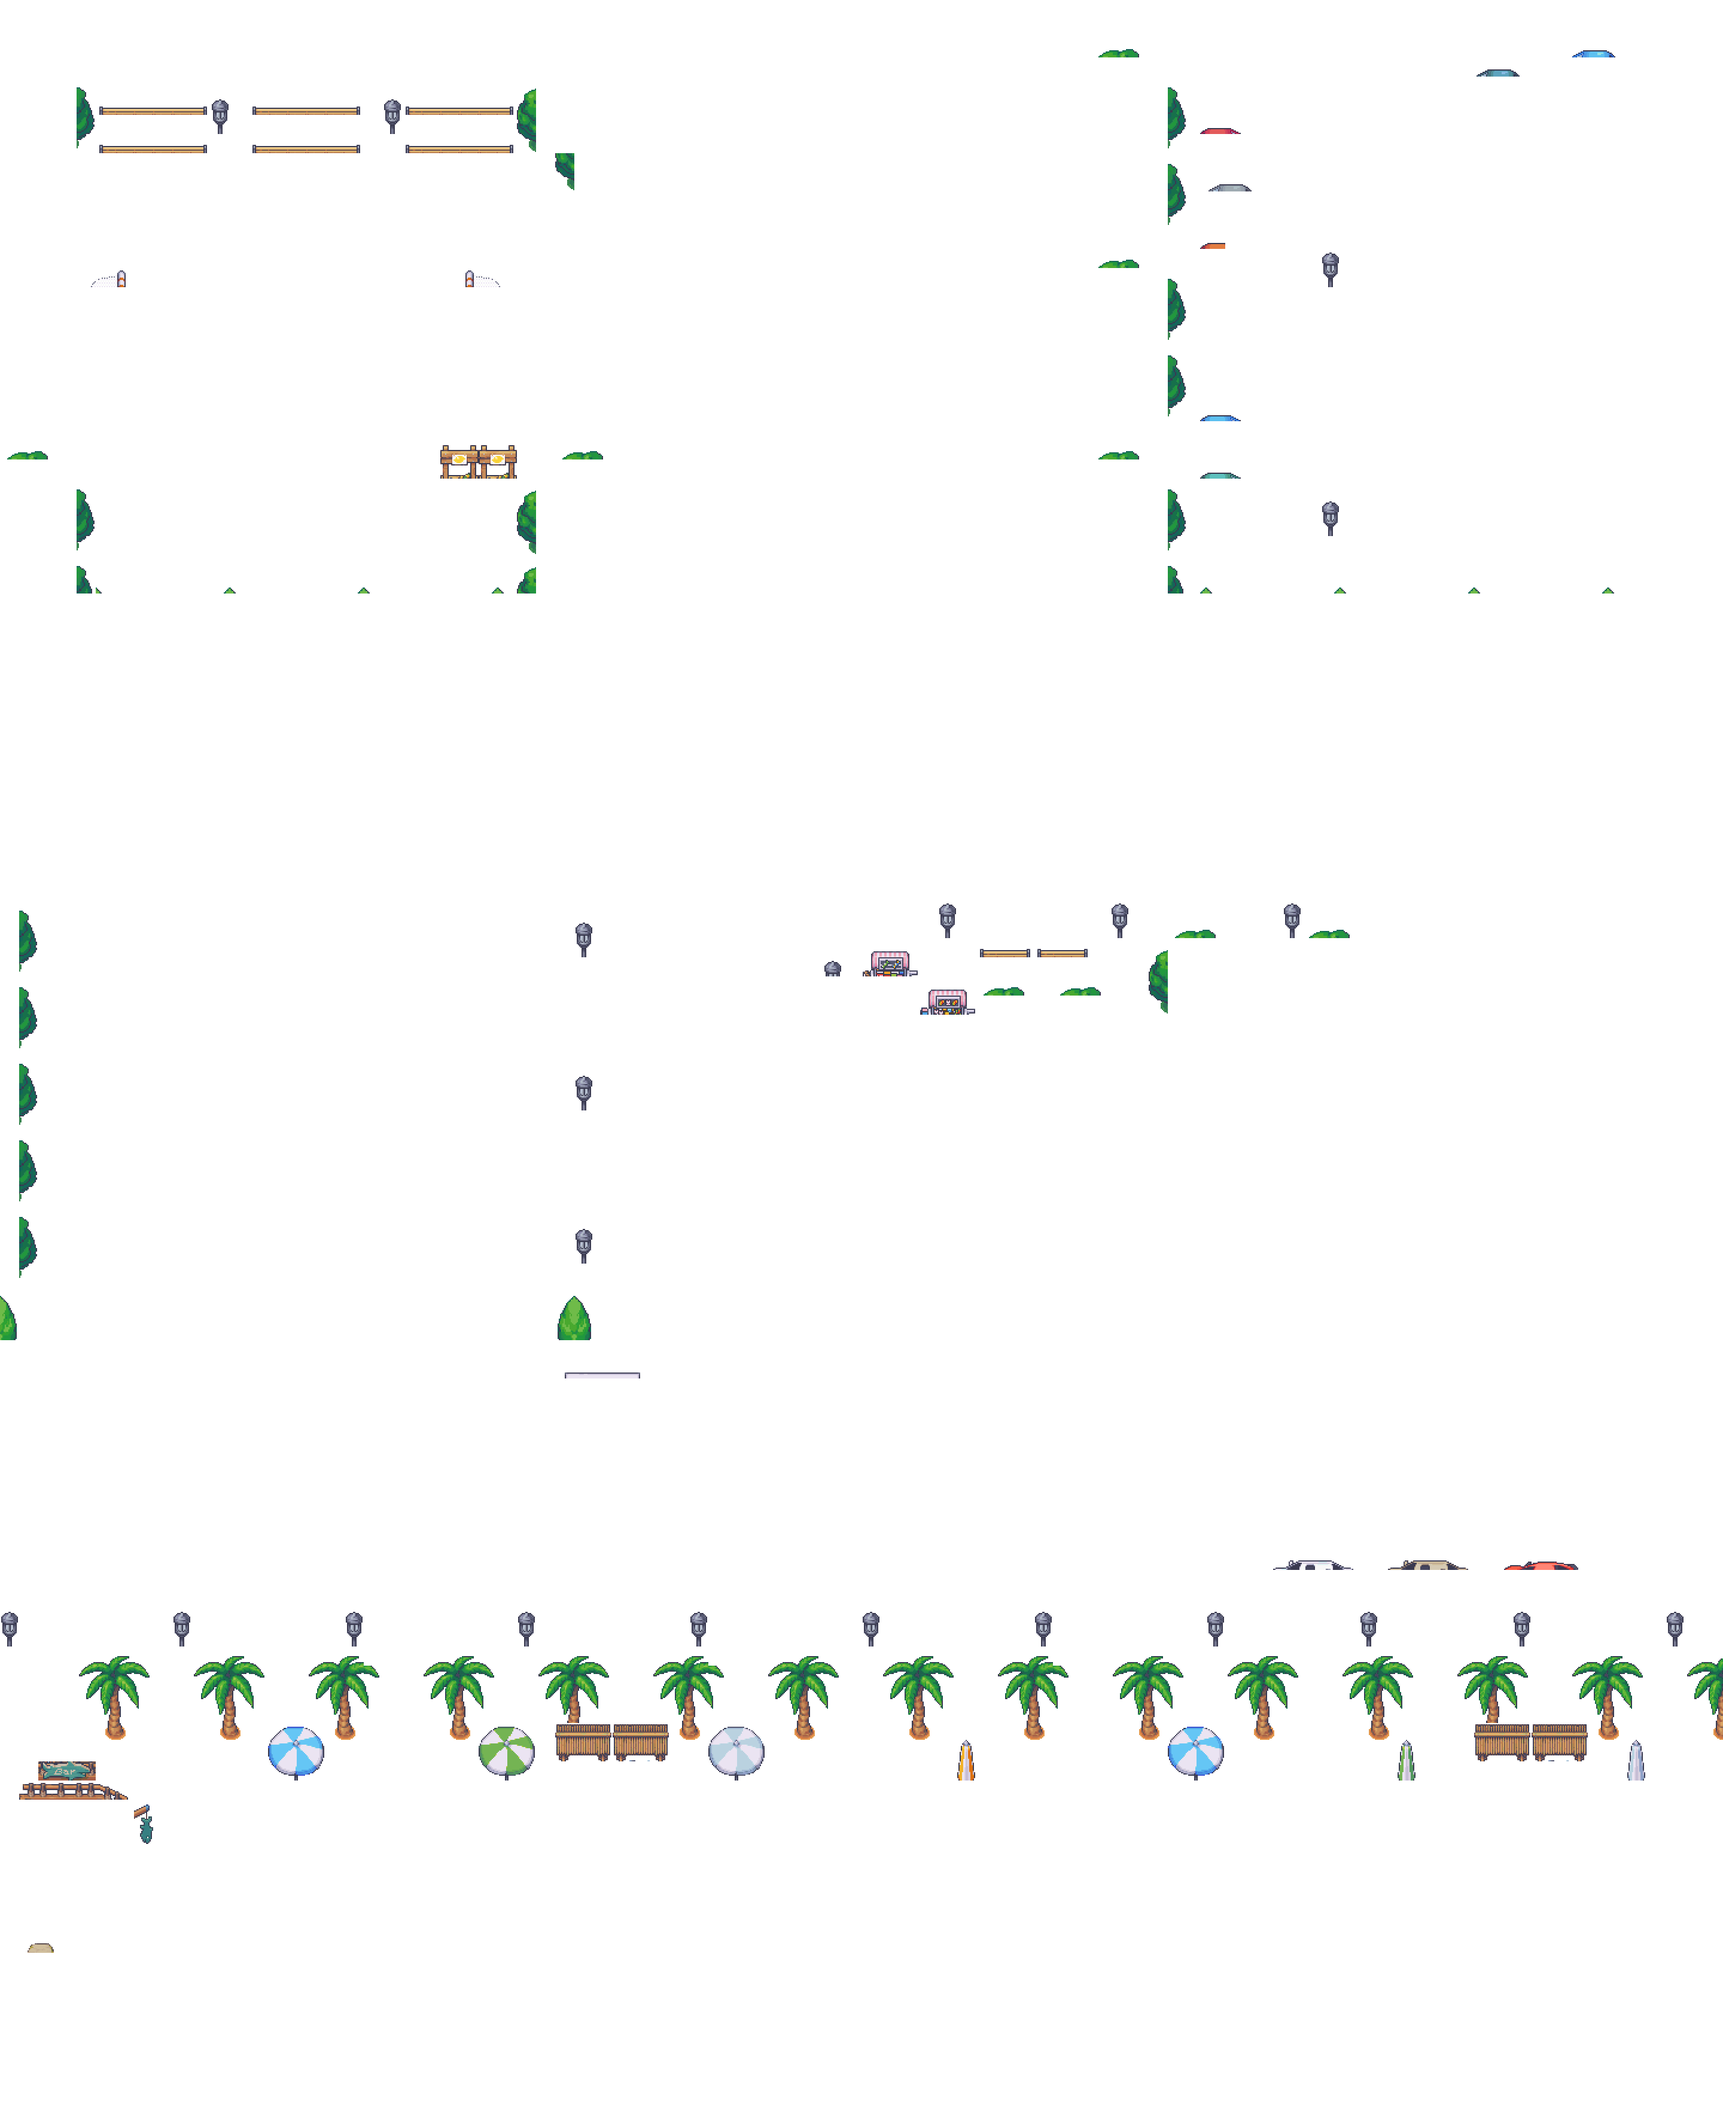
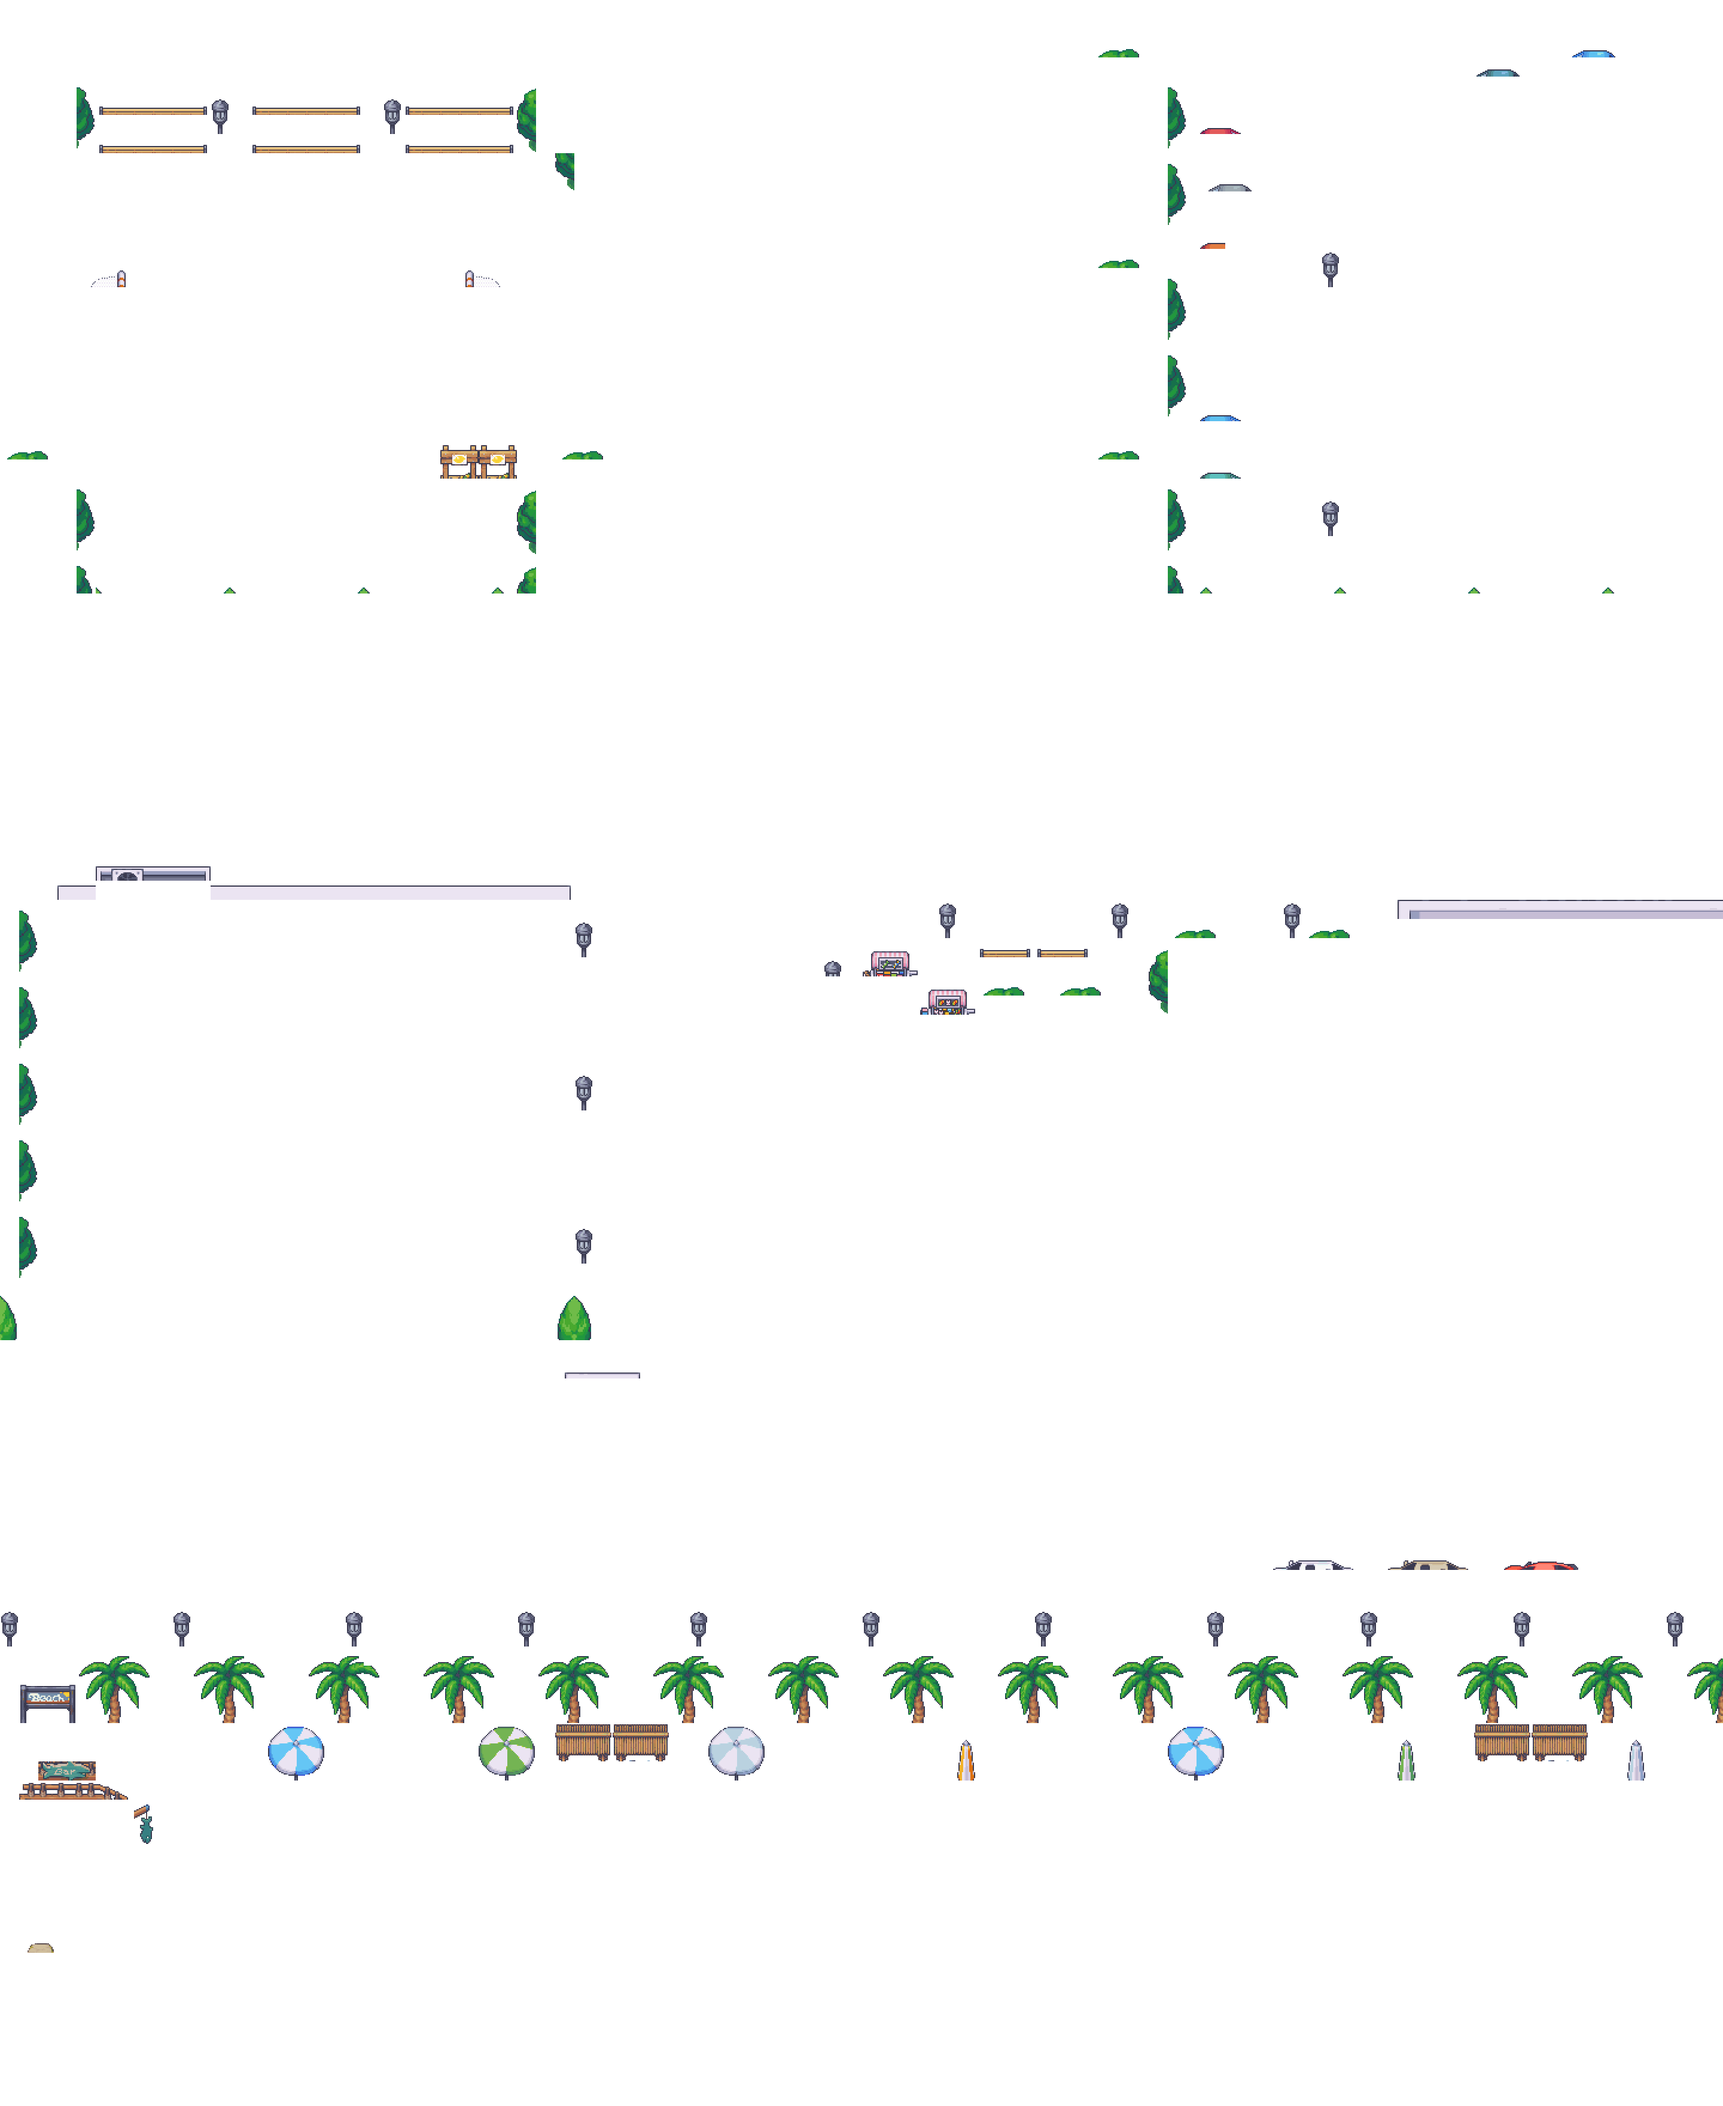
Fix: Update foreground and collisions map

Changed region(s): [[0.0312, 0.4062, 0.3438, 0.4375], [0.8125, 0.4062, 1.0, 0.4375], [0.0, 0.7812, 0.0625, 0.8125]]

diff --git a/lib/simulator/collisions.ts b/lib/simulator/collisions.ts
@@ -280,6 +280,12 @@ export const collisions = [
     0, 0, 0, 0, 0, 0, 0, 0, 0, 0, 0, 0, 0, 0, 0,
   ],
   [
+    0, 0, 0, 0, 0, 0, 0, 0, 0, 0, 0, 0, 0, 0, 0, 0, 0, 0, 0, 0, 0, 0, 0, 0, 0,
+    0, 0, 0, 0, 0, 0, 0, 0, 0, 0, 0, 0, 0, 0, 0, 0, 0, 0, 0, 0, 0, 0, 0, 0, 0,
+    0, 0, 0, 0, 0, 0, 0, 0, 0, 0, 0, 0, 0, 0, 0, 0, 0, 0, 0, 0, 0, 0, 0, 0, 0,
+    0, 0, 0, 0, 0, 0, 0, 0, 0, 0, 0, 0, 0, 0, 0,
+  ],
+  [
     0, 0, 0, 0, 0, 246, 246, 246, 246, 246, 246, 0, 0, 0, 0, 0, 0, 0, 0, 0, 0,
     0, 0, 0, 0, 0, 0, 0, 0, 0, 0, 0, 0, 0, 0, 0, 0, 0, 0, 0, 0, 0, 0, 0, 0, 0,
     0, 0, 0, 0, 0, 0, 0, 0, 0, 0, 0, 0, 0, 0, 0, 0, 0, 0, 0, 0, 0, 0, 0, 0, 0,
@@ -293,17 +299,11 @@ export const collisions = [
     0, 0, 0,
   ],
   [
-    0, 0, 0, 246, 0, 0, 0, 0, 0, 0, 0, 0, 0, 0, 0, 0, 0, 0, 0, 0, 0, 0, 0, 0, 0,
-    0, 0, 0, 0, 246, 0, 0, 0, 0, 0, 0, 0, 0, 0, 0, 0, 0, 0, 0, 0, 0, 0, 0, 0, 0,
-    0, 0, 0, 0, 0, 0, 0, 0, 0, 0, 0, 0, 0, 0, 0, 0, 0, 0, 0, 0, 0, 0, 0, 246,
-    246, 246, 246, 246, 246, 246, 246, 246, 246, 246, 246, 246, 246, 246, 246,
-    246,
-  ],
-  [
     246, 0, 0, 246, 0, 0, 0, 0, 0, 0, 0, 0, 0, 0, 0, 0, 0, 0, 0, 0, 0, 0, 0, 0,
     0, 0, 0, 0, 0, 246, 0, 0, 0, 0, 0, 0, 0, 0, 0, 0, 0, 0, 0, 0, 0, 0, 0, 0, 0,
     0, 0, 0, 0, 0, 0, 0, 0, 0, 0, 0, 0, 0, 0, 0, 0, 0, 0, 0, 0, 0, 0, 0, 0, 246,
-    0, 0, 0, 0, 0, 0, 0, 0, 0, 0, 0, 0, 0, 0, 0, 0,
+    246, 246, 246, 246, 246, 246, 246, 246, 246, 246, 246, 246, 246, 246, 246,
+    246,
   ],
   [
     246, 0, 0, 246, 0, 0, 0, 0, 0, 0, 0, 0, 0, 0, 0, 0, 0, 0, 0, 0, 0, 0, 0, 0,

diff --git a/scripts/split-collisions.py b/scripts/split-collisions.py
@@ -43,10 +43,10 @@ collisions = [0, 0, 0, 0, 0, 0, 0, 0, 0, 0, 0, 0, 0, 0, 0, 0, 0, 0, 0, 0, 0, 0, 
             0, 0, 0, 0, 0, 0, 0, 0, 0, 0, 0, 0, 0, 0, 0, 0, 0, 0, 0, 0, 0, 0, 0, 0, 0, 0, 0, 0, 0, 0, 0, 0, 0, 0, 0, 0, 0, 0, 0, 0, 0, 0, 0, 0, 0, 0, 0, 0, 0, 0, 0, 0, 0, 0, 0, 0, 0, 0, 0, 0, 0, 0, 0, 0, 0, 0, 0, 0, 0, 0, 0, 0, 0, 0, 0, 0, 0, 0, 0, 0, 0, 0, 0, 0, 0, 0, 0, 0, 0, 0,
             0, 0, 0, 0, 0, 0, 0, 0, 0, 0, 0, 0, 0, 0, 0, 0, 0, 0, 0, 0, 0, 0, 0, 0, 0, 0, 0, 0, 0, 0, 0, 0, 0, 0, 0, 0, 0, 0, 0, 0, 0, 0, 0, 0, 0, 0, 0, 0, 0, 0, 0, 0, 0, 0, 0, 0, 0, 0, 0, 0, 0, 0, 0, 0, 0, 0, 0, 0, 0, 0, 0, 0, 0, 0, 0, 0, 0, 0, 0, 0, 0, 0, 0, 0, 0, 0, 0, 0, 0, 0,
             0, 0, 0, 0, 0, 0, 0, 0, 0, 0, 0, 0, 0, 0, 0, 0, 0, 0, 0, 0, 0, 0, 0, 0, 0, 0, 0, 0, 0, 0, 0, 0, 0, 0, 0, 0, 0, 0, 0, 0, 0, 0, 0, 0, 0, 0, 0, 0, 0, 0, 0, 0, 0, 0, 0, 0, 0, 0, 0, 0, 0, 0, 0, 0, 0, 0, 0, 0, 0, 0, 0, 0, 0, 0, 0, 0, 0, 0, 0, 0, 0, 0, 0, 0, 0, 0, 0, 0, 0, 0,
+            0, 0, 0, 0, 0, 0, 0, 0, 0, 0, 0, 0, 0, 0, 0, 0, 0, 0, 0, 0, 0, 0, 0, 0, 0, 0, 0, 0, 0, 0, 0, 0, 0, 0, 0, 0, 0, 0, 0, 0, 0, 0, 0, 0, 0, 0, 0, 0, 0, 0, 0, 0, 0, 0, 0, 0, 0, 0, 0, 0, 0, 0, 0, 0, 0, 0, 0, 0, 0, 0, 0, 0, 0, 0, 0, 0, 0, 0, 0, 0, 0, 0, 0, 0, 0, 0, 0, 0, 0, 0,
             0, 0, 0, 0, 0, 246, 246, 246, 246, 246, 246, 0, 0, 0, 0, 0, 0, 0, 0, 0, 0, 0, 0, 0, 0, 0, 0, 0, 0, 0, 0, 0, 0, 0, 0, 0, 0, 0, 0, 0, 0, 0, 0, 0, 0, 0, 0, 0, 0, 0, 0, 0, 0, 0, 0, 0, 0, 0, 0, 0, 0, 0, 0, 0, 0, 0, 0, 0, 0, 0, 0, 0, 0, 0, 0, 0, 0, 0, 0, 0, 0, 0, 0, 0, 0, 0, 0, 0, 0, 0,
             0, 0, 0, 246, 246, 0, 0, 0, 0, 0, 0, 246, 246, 246, 246, 246, 246, 246, 246, 246, 246, 246, 246, 246, 246, 246, 246, 246, 246, 246, 0, 0, 0, 0, 0, 0, 0, 0, 0, 0, 0, 0, 0, 0, 0, 0, 0, 0, 0, 0, 0, 0, 0, 0, 0, 0, 0, 0, 0, 0, 0, 0, 0, 0, 0, 0, 0, 0, 0, 0, 0, 0, 0, 0, 0, 0, 0, 0, 0, 0, 0, 0, 0, 0, 0, 0, 0, 0, 0, 0,
-            0, 0, 0, 246, 0, 0, 0, 0, 0, 0, 0, 0, 0, 0, 0, 0, 0, 0, 0, 0, 0, 0, 0, 0, 0, 0, 0, 0, 0, 246, 0, 0, 0, 0, 0, 0, 0, 0, 0, 0, 0, 0, 0, 0, 0, 0, 0, 0, 0, 0, 0, 0, 0, 0, 0, 0, 0, 0, 0, 0, 0, 0, 0, 0, 0, 0, 0, 0, 0, 0, 0, 0, 0, 246, 246, 246, 246, 246, 246, 246, 246, 246, 246, 246, 246, 246, 246, 246, 246, 246,
-            246, 0, 0, 246, 0, 0, 0, 0, 0, 0, 0, 0, 0, 0, 0, 0, 0, 0, 0, 0, 0, 0, 0, 0, 0, 0, 0, 0, 0, 246, 0, 0, 0, 0, 0, 0, 0, 0, 0, 0, 0, 0, 0, 0, 0, 0, 0, 0, 0, 0, 0, 0, 0, 0, 0, 0, 0, 0, 0, 0, 0, 0, 0, 0, 0, 0, 0, 0, 0, 0, 0, 0, 0, 246, 0, 0, 0, 0, 0, 0, 0, 0, 0, 0, 0, 0, 0, 0, 0, 0,
+            246, 0, 0, 246, 0, 0, 0, 0, 0, 0, 0, 0, 0, 0, 0, 0, 0, 0, 0, 0, 0, 0, 0, 0, 0, 0, 0, 0, 0, 246, 0, 0, 0, 0, 0, 0, 0, 0, 0, 0, 0, 0, 0, 0, 0, 0, 0, 0, 0, 0, 0, 0, 0, 0, 0, 0, 0, 0, 0, 0, 0, 0, 0, 0, 0, 0, 0, 0, 0, 0, 0, 0, 0, 246, 246, 246, 246, 246, 246, 246, 246, 246, 246, 246, 246, 246, 246, 246, 246, 246,
             246, 0, 0, 246, 0, 0, 0, 0, 0, 0, 0, 0, 0, 0, 0, 0, 0, 0, 0, 0, 0, 0, 0, 0, 0, 0, 0, 0, 0, 246, 0, 0, 0, 0, 0, 0, 0, 0, 0, 0, 0, 0, 0, 0, 0, 0, 0, 0, 0, 0, 0, 0, 0, 0, 0, 0, 0, 0, 0, 0, 0, 246, 246, 246, 246, 246, 246, 246, 246, 246, 246, 246, 246, 246, 0, 0, 0, 0, 0, 0, 0, 0, 0, 0, 0, 0, 0, 0, 0, 0,
             246, 0, 0, 246, 0, 0, 0, 0, 0, 0, 0, 0, 0, 0, 0, 0, 0, 0, 0, 0, 0, 0, 0, 0, 0, 0, 0, 0, 0, 246, 0, 0, 0, 0, 0, 0, 0, 0, 0, 0, 0, 0, 0, 0, 0, 0, 0, 0, 0, 0, 0, 246, 246, 246, 246, 246, 246, 0, 0, 0, 0, 246, 0, 0, 0, 0, 0, 0, 0, 0, 0, 0, 0, 246, 0, 0, 0, 0, 0, 0, 0, 0, 0, 0, 0, 0, 0, 0, 0, 0,
             246, 0, 0, 246, 0, 0, 0, 0, 0, 0, 0, 0, 0, 0, 0, 0, 0, 0, 0, 0, 0, 0, 0, 0, 0, 0, 0, 0, 0, 246, 0, 0, 0, 0, 0, 0, 0, 0, 0, 0, 0, 0, 0, 246, 246, 246, 246, 246, 0, 0, 0, 0, 0, 0, 0, 0, 0, 0, 0, 0, 0, 246, 0, 0, 0, 0, 0, 0, 0, 0, 0, 0, 0, 246, 0, 0, 0, 0, 0, 0, 0, 0, 0, 0, 0, 0, 0, 0, 0, 0,
